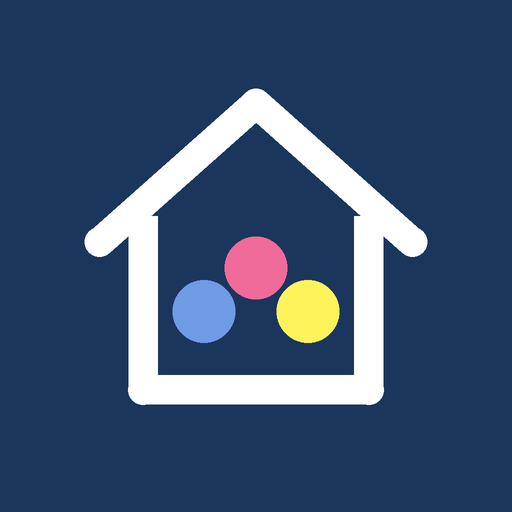
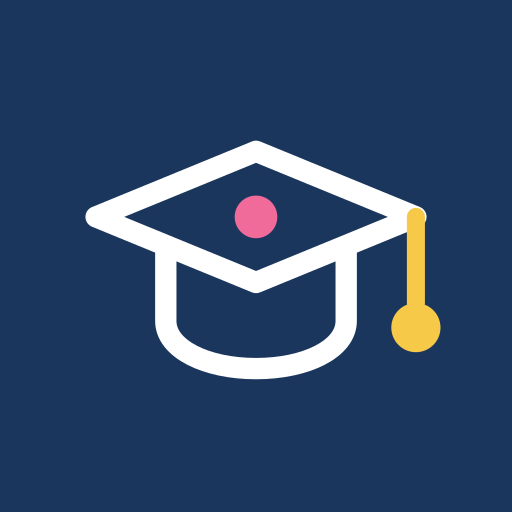
ไอคอนหมวกรับปริญญาแทนรูปบ้าน (หัวเว็บ + ไอคอนหน้าจอโฮม)
Claude-Session: https://claude.ai/code/session_01XyFuhL7pRgFJ337Gj9GZTA

Changed region(s): [[0.1562, 0.1562, 0.875, 0.8125]]

diff --git a/index.html b/index.html
@@ -1257,7 +1257,7 @@ small.over{color:var(--bad)!important;font-weight:700}
 <div class="wrap">
   <header class="top">
     <div class="brand">
-      <svg viewBox="0 0 46 46" aria-hidden="true"><path d="M5 22 23 6l18 16" fill="none" stroke="currentColor" stroke-width="3.4" stroke-linecap="round" stroke-linejoin="round"/><path d="M10 19v20h26V19" fill="none" stroke="currentColor" stroke-width="3.4" stroke-linejoin="round"/><circle cx="17" cy="30" r="3.4" fill="#2F5BD3"/><circle cx="23" cy="25" r="3.4" fill="#D23F77"/><circle cx="29" cy="30" r="3.4" fill="#D9940F"/></svg>
+      <svg viewBox="0 0 46 46" aria-hidden="true"><g fill="none" stroke="currentColor" stroke-linecap="round" stroke-linejoin="round"><path d="M3.5 17.5 23 9.5l19.5 8L23 25.5z" stroke-width="3"/><path d="M12 21.6v8.6c0 3.4 4.9 5.8 11 5.8s11-2.4 11-5.8v-8.6" stroke-width="3"/><path d="M42.5 17.5v10.5" stroke="#D9940F" stroke-width="2.6"/></g><circle cx="42.5" cy="31" r="3.2" fill="#D9940F"/><circle cx="23" cy="17.5" r="2.8" fill="#D23F77"/></svg>
       <div><h1 id="houseName">Classroom</h1></div>
     </div>
     <button type="button" class="modebtn" id="modeBtn" data-act="toggleBro" aria-pressed="false"><span class="dot"></span><span class="mlabel">โหมดพี่</span></button>
@@ -5441,7 +5441,7 @@ document.addEventListener('keydown',e=>{
 });
 
 /* footer: when the website itself was last updated (stamped at each release) */
-const SITE_UPDATED='2026-11-21T12:04:00+07:00';
+const SITE_UPDATED='2026-11-21T13:10:00+07:00';
 /* the stamp (real time of the release, never ahead) is only a fallback: the live site always shows GitHub's last commit time of index.html */
 (function(){const el=document.getElementById('siteFoot');if(!el)return;
   const show=iso=>{const d=new Date(iso);if(isNaN(d))return;let t;try{t=d.toLocaleDateString('th-TH',{day:'numeric',month:'short',year:'numeric',timeZone:'Asia/Bangkok'})+' เวลา '+d.toLocaleTimeString('th-TH',{hour:'2-digit',minute:'2-digit',timeZone:'Asia/Bangkok'})+' น.'}catch(e){t=iso}
